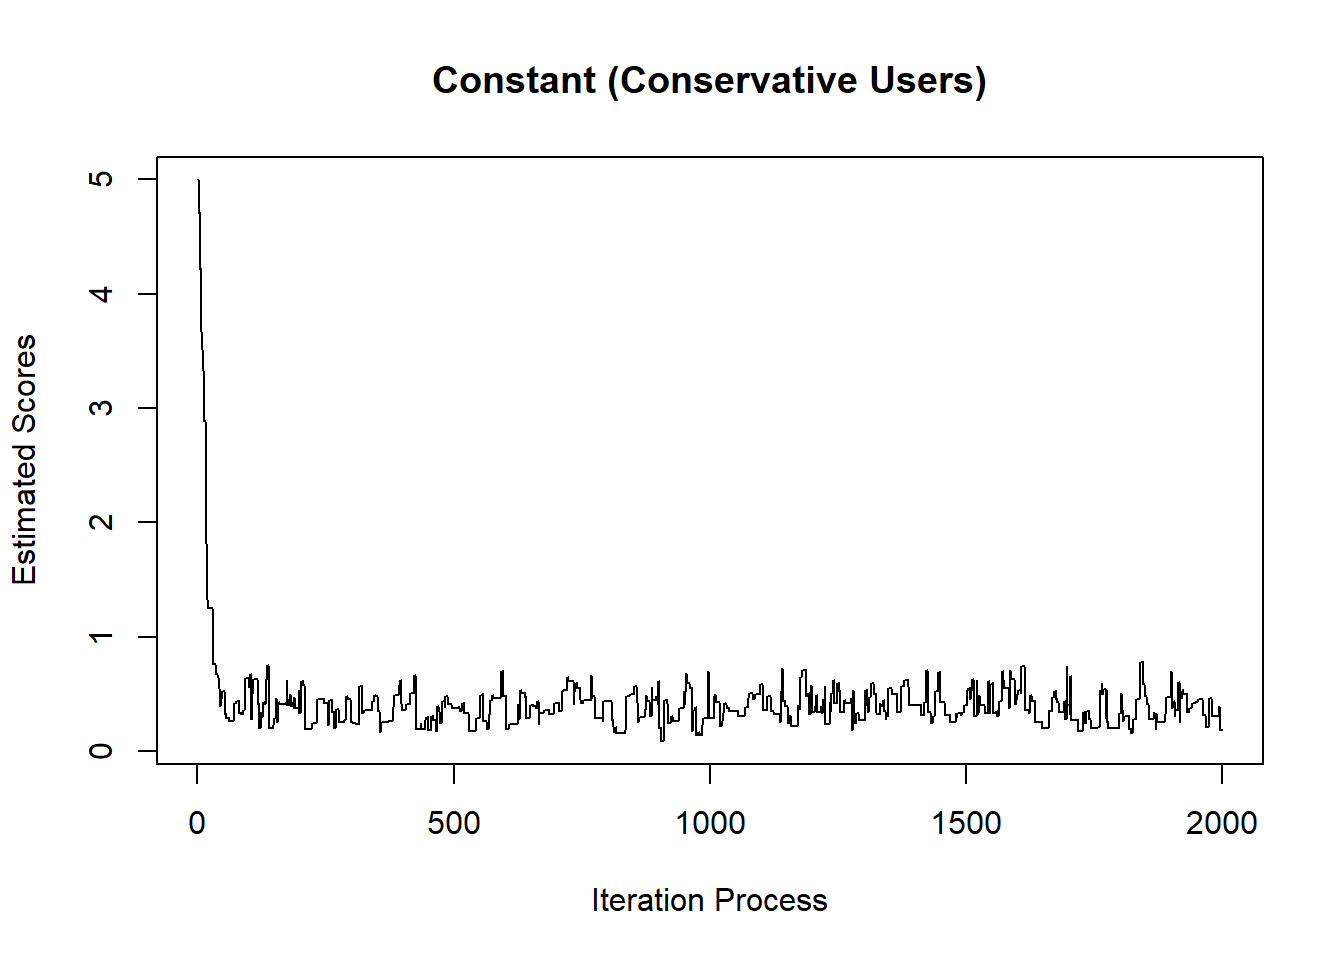
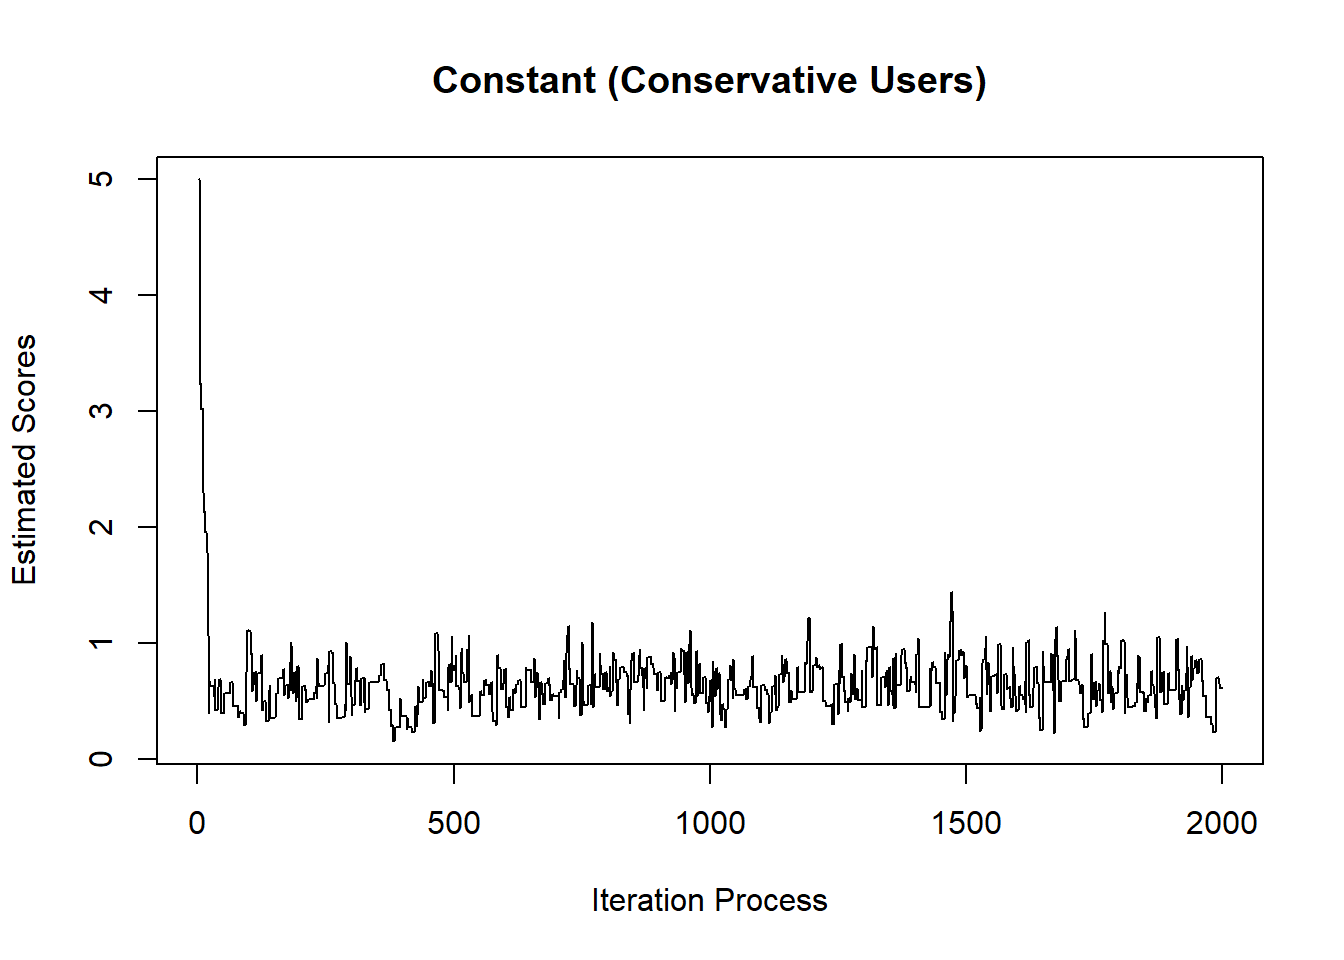
New file

diff --git a/docs/twitter.html b/docs/twitter.html
@@ -297,7 +297,90 @@ $(document).ready(function () {
 </div>
 
 
-<p>The following is part of my course project for Stat 536. It aims to replicate part of the findings from Barber</p>
+<p>The following is part of my course project for Stat 536. It aims to replicate part of the findings from Barbera (2015) Birds of the Same Feather Tweet Together: Bayesian Ideal Point Estimation Using Twitter Data. Political Analysis 23 (1). Note that, the following model is much simpler than that in the original paper.</p>
+<p>Suppose that a Twitter user is presented with a choice between following or not following another target <span class="math inline">\(j \in \{ 1, ..., m\}\)</span>. Let <span class="math inline">\(y_{j}=1\)</span> if the user decides to follow <span class="math inline">\(j\)</span>, and <span class="math inline">\(y_{j}=0\)</span> otherwise.</p>
+<p><span class="math display">\[y_{j}=\begin{cases} 1 &amp; Following \\ 0 &amp; Not Following \end{cases}\]</span></p>
+<p><span class="math display">\[p(y_{j}=1|\theta) = \frac{exp(- \theta_0|\theta_1 - x_j|^2)}{1+exp(- \theta_0|\theta_1 - x_j|^2)}\]</span> We additionally know the priors of <span class="math inline">\(\theta\)</span>.</p>
+<p><span class="math display">\[\theta_i \sim N(0,10^2) (i = 0, 1)\]</span></p>
+<p>The likelihood function is as follows.</p>
+<p><span class="math display">\[L(Y|\theta)=\prod_{j=1}^{m} (\frac{exp(- \theta_0|\theta_1 - x_j|^2)}{1+exp(- \theta_0|\theta_1 - x_j|^2)})^{y_j}(1-\frac{exp(- \theta_0|\theta_1 - x_j|^2)}{1+exp(- \theta_0|\theta_1 - x_j|^2)})^{(1-y_j)}\]</span> Thus, the posterior is as follows.</p>
+<p><span class="math display">\[L(Y|\theta) \cdot N(\theta_0|0,10) \cdot N(\theta_1|0,10)\]</span> <span class="math display">\[\propto \prod_{j=1}^{m} (\frac{exp(- \theta_0|\theta_1 - x_j|^2)}{1+exp(- \theta_0|\theta_1 - x_j|^2)})^{y_j}(1-\frac{exp(- \theta_0|\theta_1 - x_j|^2)}{1+exp(- \theta_0|\theta_1 - x_j|^2)})^{(1-y_j)}\cdot exp(-\frac{1}{2}(\frac{\theta_0}{10})^2)\cdot exp(-\frac{1}{2}(\frac{\theta_1}{10})^2)\]</span></p>
+<div id="simulating-data-of-senators-on-twitter" class="section level2">
+<h2>Simulating Data of Senators on Twitter</h2>
+<p>Assume that we have 100 senators, 50 Democrats and 50 Republicans, who we know their ideology. Assume that Democrats have negative ideology scores to indicate that they are more liberal, whereas Republicans have positive scores to indicate that they are more conservative. The following is data simulation for senators.</p>
+<pre class="r"><code># Republicans are more conservative, and they have positive numbers.
+Republicans&lt;-c()
+Republicans&lt;-rnorm(50,1,0.5)
+No_Republicans&lt;-rep(1:50,1)
+Part_1&lt;-cbind(No_Republicans,Republicans)
+
+# Democrats are more liberal, and they have negative numbers.
+Democrats&lt;-c()
+Democrats&lt;-rnorm(50,-1,0.5)
+No_Democrats&lt;-rep(51:100,1)
+Part_2&lt;-cbind(No_Democrats,Democrats)
+Data_Elites&lt;-rbind(Part_1,Part_2)
+Data_Elites&lt;-as.data.frame(Data_Elites)
+colnames(Data_Elites) &lt;- c(&quot;Elite_No&quot;,&quot;Elite_ideology&quot;)
+
+head(Data_Elites)</code></pre>
+<pre><code>##   Elite_No Elite_ideology
+## 1        1      1.5683704
+## 2        2      0.8990969
+## 3        3      1.0421090
+## 4        4      0.4122945
+## 5        5      0.9497498
+## 6        6      1.6038005</code></pre>
+</div>
+<div id="simulating-data-of-conservative-users-on-twitter-and-model-testing" class="section level2">
+<h2>Simulating Data of Conservative Users on Twitter and Model Testing</h2>
+<p>Assume that we observe one Twitter user, who is more conservative. To simulate Twitter following data for this user, I assign this user to follow more Republican senators. Thus, if the Metropolis Hastings algorithm works as intended, we would expect to see a positive estimated value for their ideology. Importantly, as we can see in the histogram below, the estimated value indeed is positive, providing preliminary evidence for the statistical model and the algorithm. In addition, for the acceptance rate, we can see that the constant has a lower number than ideology, since we only accept a constant when it is positive.</p>
+<pre class="r"><code>#This user approximately follows 45 Republican Senators and 10 Democrat Senators. 
+Data_user&lt;-as.data.frame(matrix(c(ifelse(runif(50)&lt;.1,0,1),ifelse(runif(50)&lt;.8,0,1))), 100, 1)
+colnames(Data_user)&lt;-c(&quot;R_User&quot;)
+Data_combined&lt;-cbind(Data_Elites,Data_user)
+
+X_data&lt;-Data_combined$Elite_ideology
+Y_data&lt;-Data_combined$R_User
+
+fit_C&lt;-Bayes_logit(Y_data,X_data)
+fit_C$acceptance_rate</code></pre>
+<pre><code>## [1] 0.3296648 0.3316658</code></pre>
+<pre class="r"><code>plot(fit_C$theta[,1],main=&quot;Constant (Conservative Users)&quot;,
+     xlab=&quot;Iteration Process&quot;,ylab=&quot;Estimated Scores&quot;,type=&quot;l&quot;)</code></pre>
+<p><img src="twitter_files/figure-html/unnamed-chunk-2-1.png" width="672" /></p>
+<pre class="r"><code>plot(fit_C$theta[,2],main=&quot;Estimated Ideology Scores (Conservative Users)&quot;,
+     xlab=&quot;Iteration Process&quot;,ylab=&quot;Ideology Scores&quot;,type=&quot;l&quot;)</code></pre>
+<p><img src="twitter_files/figure-html/unnamed-chunk-2-2.png" width="672" /></p>
+<pre class="r"><code>hist(fit_C$theta[,2],main=&quot;Estimated Ideology Scores (Conservative Users)&quot;,
+     xlab=&quot;Ideology Scores&quot;,breaks = 100)</code></pre>
+<p><img src="twitter_files/figure-html/unnamed-chunk-2-3.png" width="672" /></p>
+</div>
+<div id="simulating-data-of-liberal-users-on-twitter-and-model-testing" class="section level2">
+<h2>Simulating Data of Liberal Users on Twitter and Model Testing</h2>
+<p>To further verify the Metropolis Hastings algorithm, I plan to test the opposite estimate. Specifically, assume that we observe another user, who is more liberal. To simulate Twitter following data for this user, I assign this user to follow more Democrat senators. In this case, we would expect to see a negative value for their estimated ideology. As we can see in the histogram shown below, as expected, the estimated value is negative, providing convergent evidence for the model and the algorithm.</p>
+<pre class="r"><code>#This user approximately follows 10 Republican Senators and 45 Democrat Senators. 
+Data_user&lt;-as.data.frame(matrix(c(ifelse(runif(50)&lt;.8,0,1),ifelse(runif(50)&lt;.1,0,1))), 100, 1)
+colnames(Data_user)&lt;-c(&quot;L_User&quot;)
+Data_combined&lt;-cbind(Data_Elites,Data_user)
+
+X_data&lt;-Data_combined$Elite_ideology
+Y_data&lt;-Data_combined$L_User
+
+
+fit_L&lt;-Bayes_logit(Y_data,X_data)
+fit_L$acceptance_rate</code></pre>
+<pre><code>## [1] 0.1315658 0.6748374</code></pre>
+<pre class="r"><code>plot(fit_L$theta[,1],main=&quot;Constant (Liberal Users)&quot;,
+     xlab=&quot;Iteration Process&quot;,ylab=&quot;Estimated Scores&quot;,type=&quot;l&quot;)</code></pre>
+<p><img src="twitter_files/figure-html/unnamed-chunk-3-1.png" width="672" /></p>
+<pre class="r"><code>plot(fit_L$theta[,2],main=&quot;Estimated Ideology Scores (Liberal Users)&quot;,
+     xlab=&quot;Iteration Process&quot;,ylab=&quot;Ideology Scores&quot;,type=&quot;l&quot;)</code></pre>
+<p><img src="twitter_files/figure-html/unnamed-chunk-3-2.png" width="672" /></p>
+<pre class="r"><code>hist(fit_L$theta[,2],main=&quot;Estimated Ideology Scores (Liberal Users)&quot;,
+     xlab=&quot;Ideology Scores&quot;,breaks = 100)</code></pre>
+<p><img src="twitter_files/figure-html/unnamed-chunk-3-3.png" width="672" /></p>
+</div>
 
 
 
